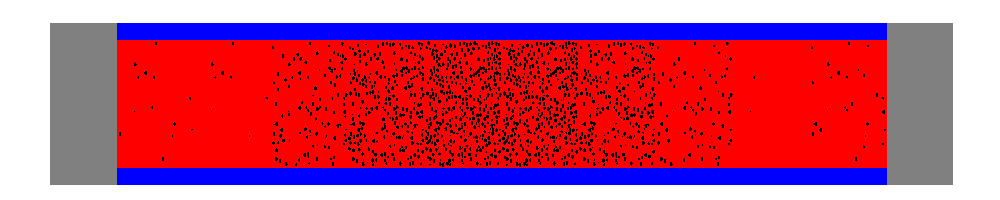
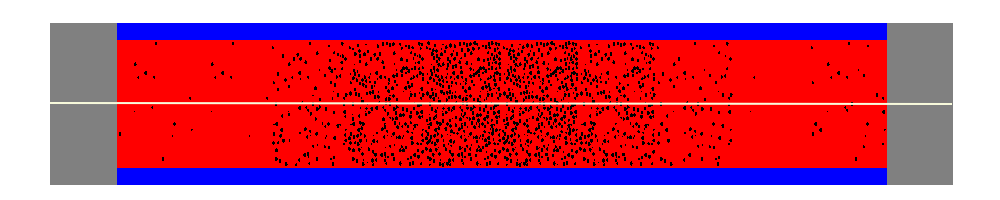
progress

Changed region(s): [[0.031, 0.51, 0.961, 0.54]]

diff --git a/docs/method.tex b/docs/method.tex
@@ -702,7 +702,8 @@ The AHTR plank model with TRISO-level fidelity is depicted in Figure \ref{fig:ah
             \textcolor{fhrblack}{$\blacksquare$} & TRISO particle 
         \end{tabular}}}
     \caption{AHTR plank geometry and packing fraction distribution used for AHTR plank's key 
-    neutronics parameters verification.}  
+    neutronics parameters verification. White line corresponds to centerline where 
+    flux distribution is measured. }  
     \label{fig:ahtr-plank-verification}
 \end{figure}
 
@@ -783,7 +784,8 @@ Comparison of flux distributions produced by Moltres and OpenMC are key to
 ensuring that temperature distribution is accurately calculated in Moltres.
 
 Figure \ref{fig:flux_948K} shows the 4-group flux distributions for OpenMC and 
-Moltres. 
+Moltres alone the \gls{AHTR} plank's centerline along the x-axis at the y-axis' 
+midpoint (white line on Figure \ref{fig:ahtr-plank-verification}). 
 \begin{figure}[htbp]
     \centering
     \includegraphics[width=0.48\linewidth]{flux_group1_948K.png} 
@@ -838,7 +840,8 @@ The AHTR one-third assembly model with TRISO-level fidelity is depicted in Figur
             \textcolor{fhrblack}{$\blacksquare$} & TRISO particle 
         \end{tabular}}}
     \caption{AHTR one-third assembly geometry and packing fraction distribution used for AHTR 
-    one-third assembly's key neutronics parameters verification.}  
+    one-third assembly's key neutronics parameters verification. White line corresponds to 
+    centerline where flux distribution is measured. }  
     \label{fig:ahtr-assem-verification}
 \end{figure}
 
@@ -899,6 +902,17 @@ coefficients from OpenMC and Moltres show good agreement with a discrepancy of 0
 \end{table}
 
 \subsubsection{AHTR One-Third Assembly: Flux Distribution}
+The $\epsilon_{f,g}$ and $\Sigma_{f,g}$ terms in the Moltres source term (Equation 
+\ref{eq:moltres-source-term}) are provided to Moltres through 
+the group constants generated by neutronics software, OpenMC.
+Thus, differences in the source term between OpenMC and Moltres are dependent on 
+the flux. 
+Comparison of flux distributions produced by Moltres and OpenMC are key to 
+ensuring that temperature distribution is accurately calculated in Moltres.
+
+Figure \ref{fig:flux_948K_assem} shows the 4-group flux distributions for OpenMC and 
+Moltres alone the \gls{AHTR} one-third assembly's centerline along the y-axis at 
+the x-axis' midpoint (white line on Figure \ref{fig:ahtr-assem-verification}). 
 
 \subsubsection{AHTR One-Third Assembly: Neutron Energy Spectrum}
 Figure \ref{fig:assem_neutron_spectrum_948K} shows the neutron spectrum of the OpenMC 
